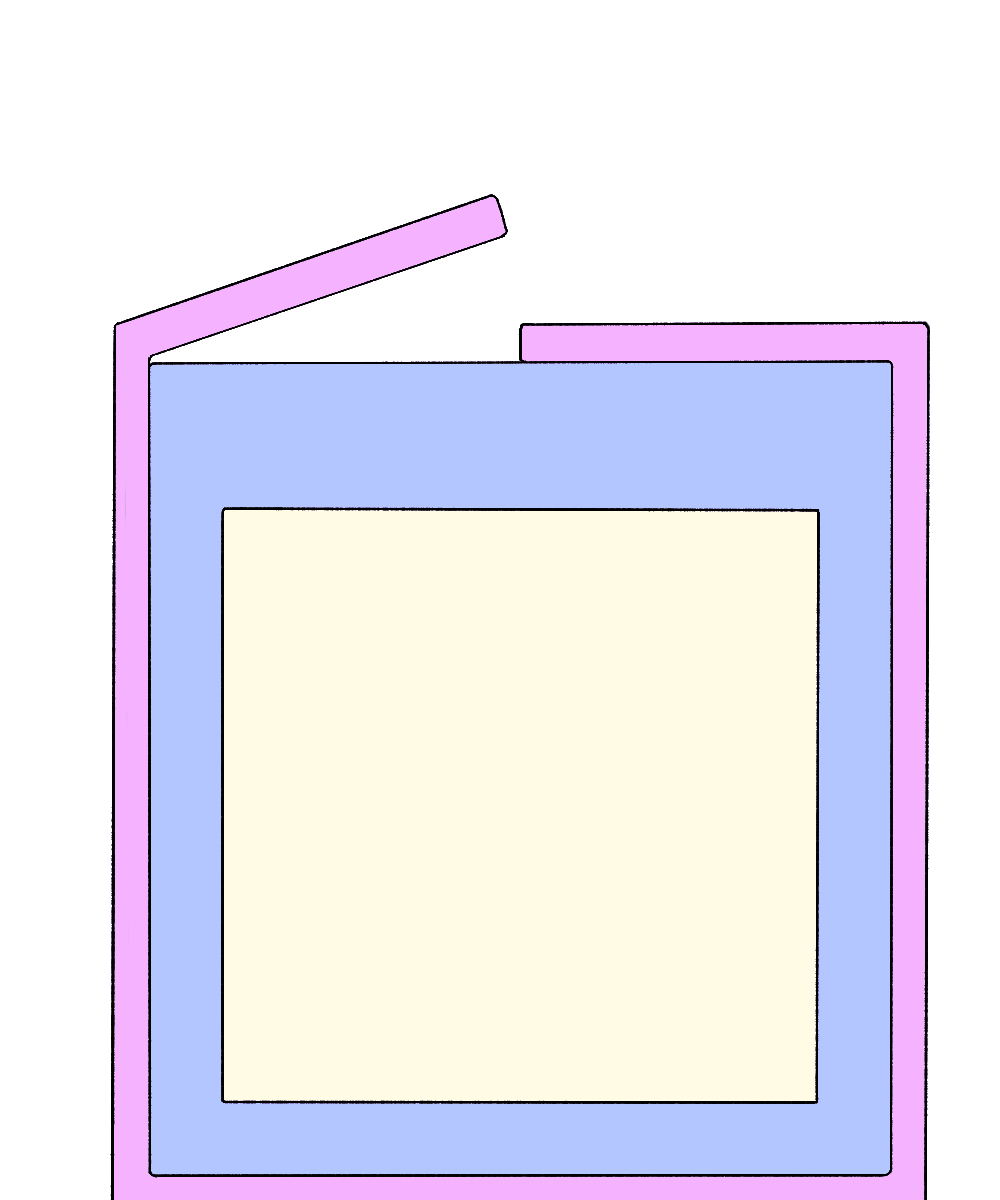
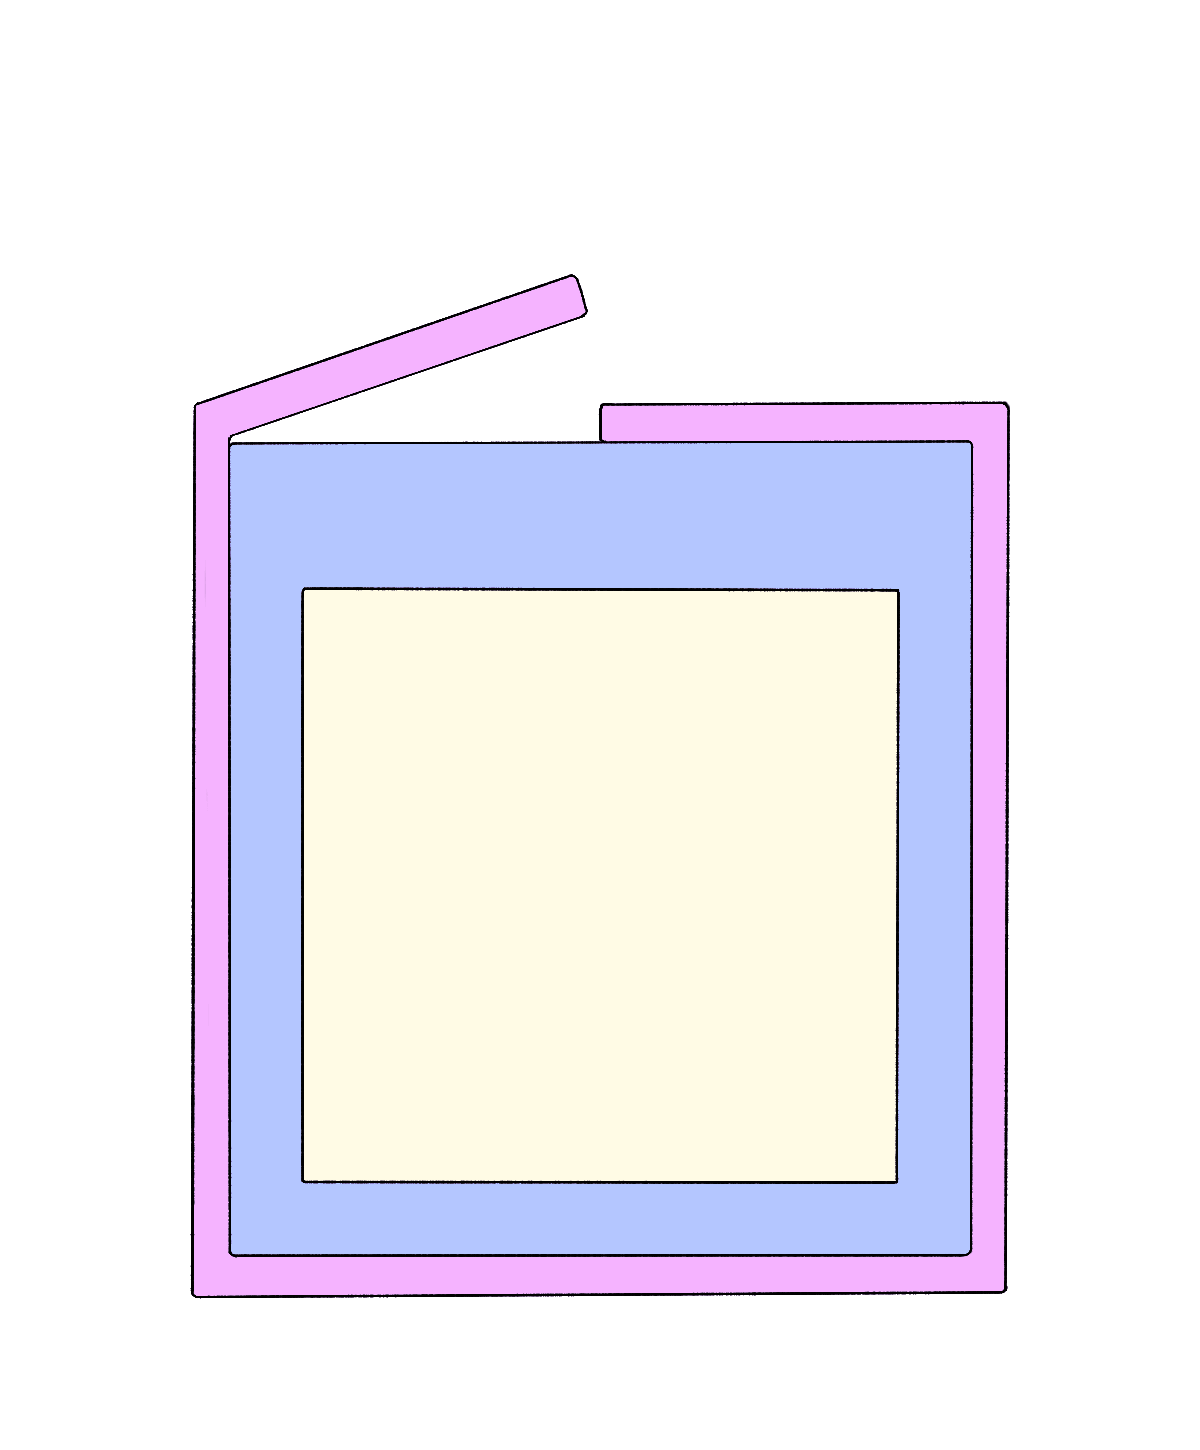
fix: preserve full profile package and bubble art

diff --git a/app/globals.css b/app/globals.css
@@ -22,16 +22,16 @@ button { -webkit-tap-highlight-color:transparent; }
 .pop { animation:pop .32s ease-out both; }
 .steam { animation:steam 2.2s ease-in-out infinite; }
 
-.package-form { position:relative; width:min(87vw,335px); aspect-ratio:5/6; margin:0 auto; overflow:hidden; background:url('/illustrations/profile/package-cropped.png') center / 100% 100% no-repeat; }
+.package-form { position:relative; width:min(87vw,335px); aspect-ratio:1200/1450; margin:0 auto; overflow:hidden; background:url('/illustrations/profile/package-cropped.png') center / 100% 100% no-repeat; }
 .package-art { display:none; }
-.package-slip { position:absolute; left:20%; top:28%; width:60%; color:#1f3155; font-size:clamp(8px,2.25vw,11px); line-height:1.25; }
-.package-slip label { display:block; margin-top:10px; font-size:.82em; font-weight:800; letter-spacing:.03em; }
-.package-slip input { display:block; width:100%; min-height:24px; margin-top:8px; border:1px solid #1f3155; border-radius:1px; background:rgba(255,255,255,.38); padding:2px 5px; color:#1f3155; font-size:12px; outline:none; }
+.package-slip { position:absolute; left:25%; top:36%; width:50%; color:#1f3155; font-size:clamp(8px,2.1vw,10px); line-height:1.2; }
+.package-slip label { display:block; margin-top:8px; font-size:.82em; font-weight:800; letter-spacing:.03em; }
+.package-slip input { display:block; width:100%; min-height:23px; margin-top:6px; border:1px solid #1f3155; border-radius:1px; background:rgba(255,255,255,.38); padding:2px 4px; color:#1f3155; font-size:11px; outline:none; }
 .package-slip input:focus { background:#fff; box-shadow:2px 2px 0 #1f3155; }
 .barcode { letter-spacing:1px; font-size:12px; font-weight:900; }
-.days-bubble { position:relative; width:min(84vw,320px); aspect-ratio:2; margin:0 auto; overflow:visible; }
+.days-bubble { position:relative; width:min(84vw,320px); aspect-ratio:1200/550; margin:0 auto; overflow:visible; }
 .days-bubble img { display:block; width:100%; height:100%; object-fit:contain; }
-.days-bubble p { position:absolute; left:13%; right:13%; top:50%; margin:0; transform:translateY(-42%); text-align:center; color:#1f3155; font-size:clamp(12px,3.4vw,15px); font-weight:700; line-height:1.45; }
+.days-bubble p { position:absolute; left:13%; right:13%; top:54%; margin:0; transform:translateY(-42%); text-align:center; color:#1f3155; font-size:clamp(12px,3.4vw,15px); font-weight:700; line-height:1.45; }
 section.my-auto:has(.package-form) { width:100%; max-width:430px; margin:0 auto; padding:20px 0; }
 section.my-auto:has(.package-form) > * + * { margin-top:40px; }
 section.my-auto:has(.package-form) > .package-form { margin-top:0; }
